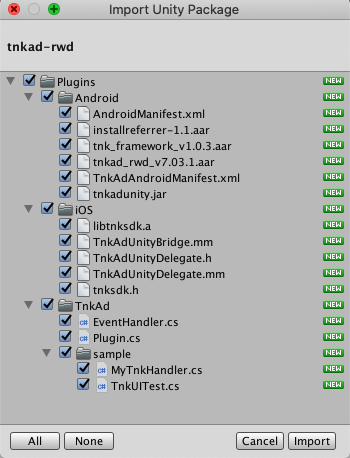
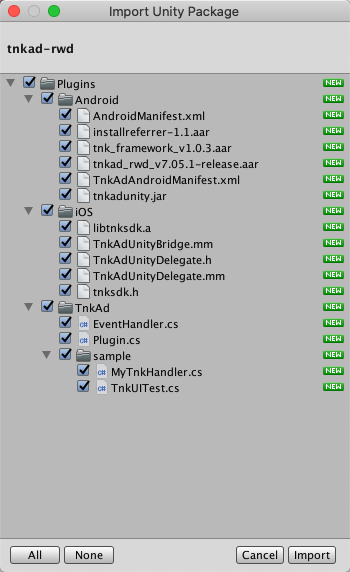
v7.05.1 업데이트

diff --git a/ReadMe.md b/ReadMe.md
@@ -14,8 +14,12 @@ TnkAd SDK는 Tnk의 광고 네트워크 상에서 광고앱 이나 매체앱을 
 
 ### Update Notice
 
+* 2020.06.26
+  * Android SDK v7.05.1 업데이트
+    * 내부 기능 개선
 * 2020.06.03
   * Android SDK v7.04.1 업데이트
+    * 내부 기능 개선
 
 
 
@@ -27,6 +31,8 @@ TnkAd SDK는 Tnk의 광고 네트워크 상에서 광고앱 이나 매체앱을 
 
 ### Update Notice
 
+* 2020.06.26
+  * Android SDK v7.05.1 적용
 * 2020.06.03
   * Android SDK v7.04.1 적용
 

diff --git a/Android_Guide.md b/Android_Guide.md
@@ -83,7 +83,7 @@
 
 ```gradle
 dependencies {
-    implementation 'com.tnkfactory.ad:rwd:7.04.1'
+    implementation 'com.tnkfactory.ad:rwd:7.05.1'
 }
 ```
 
